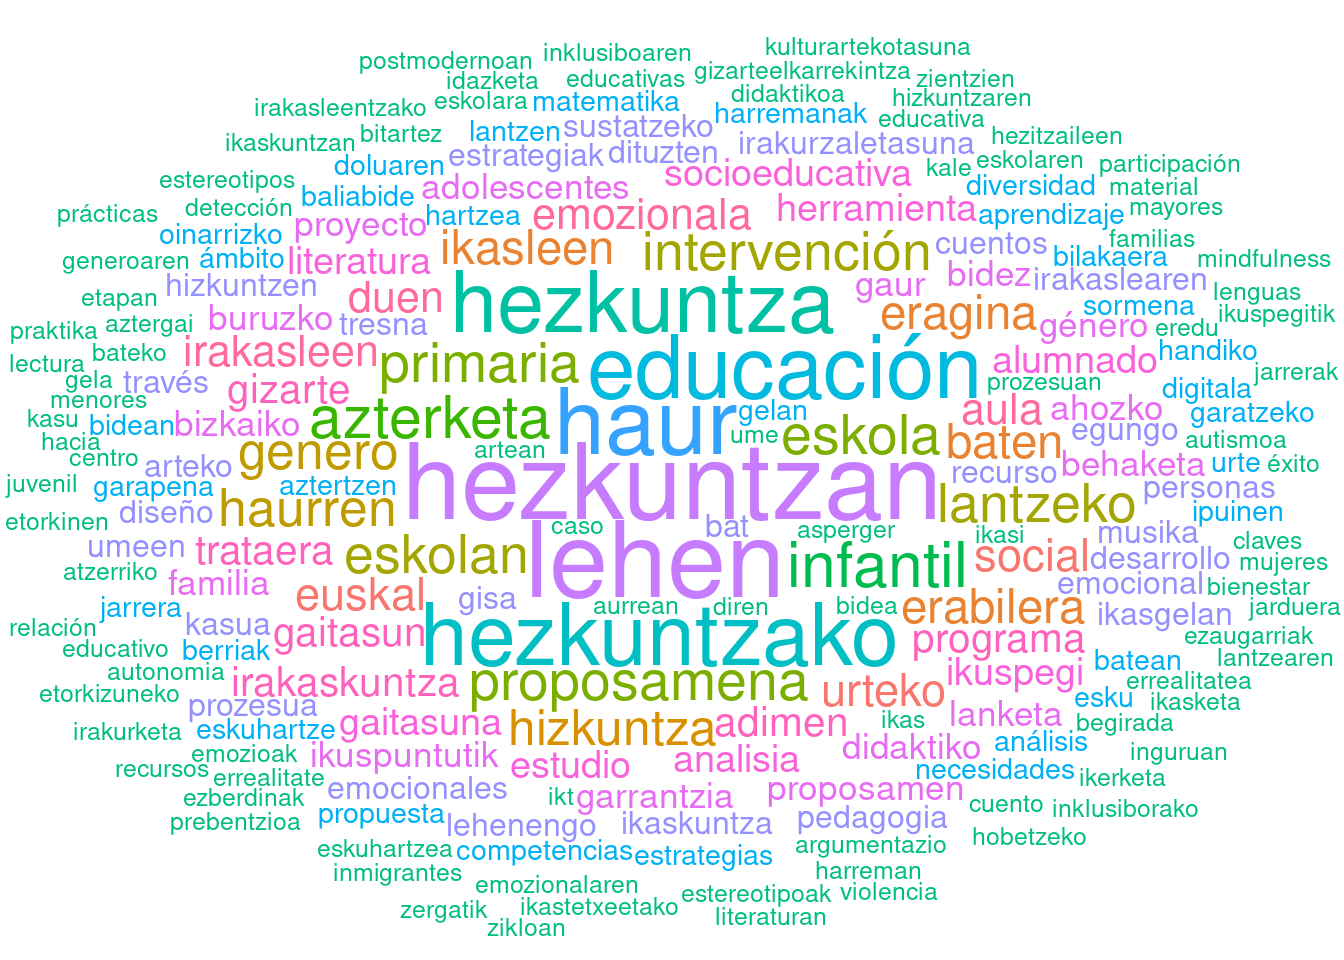
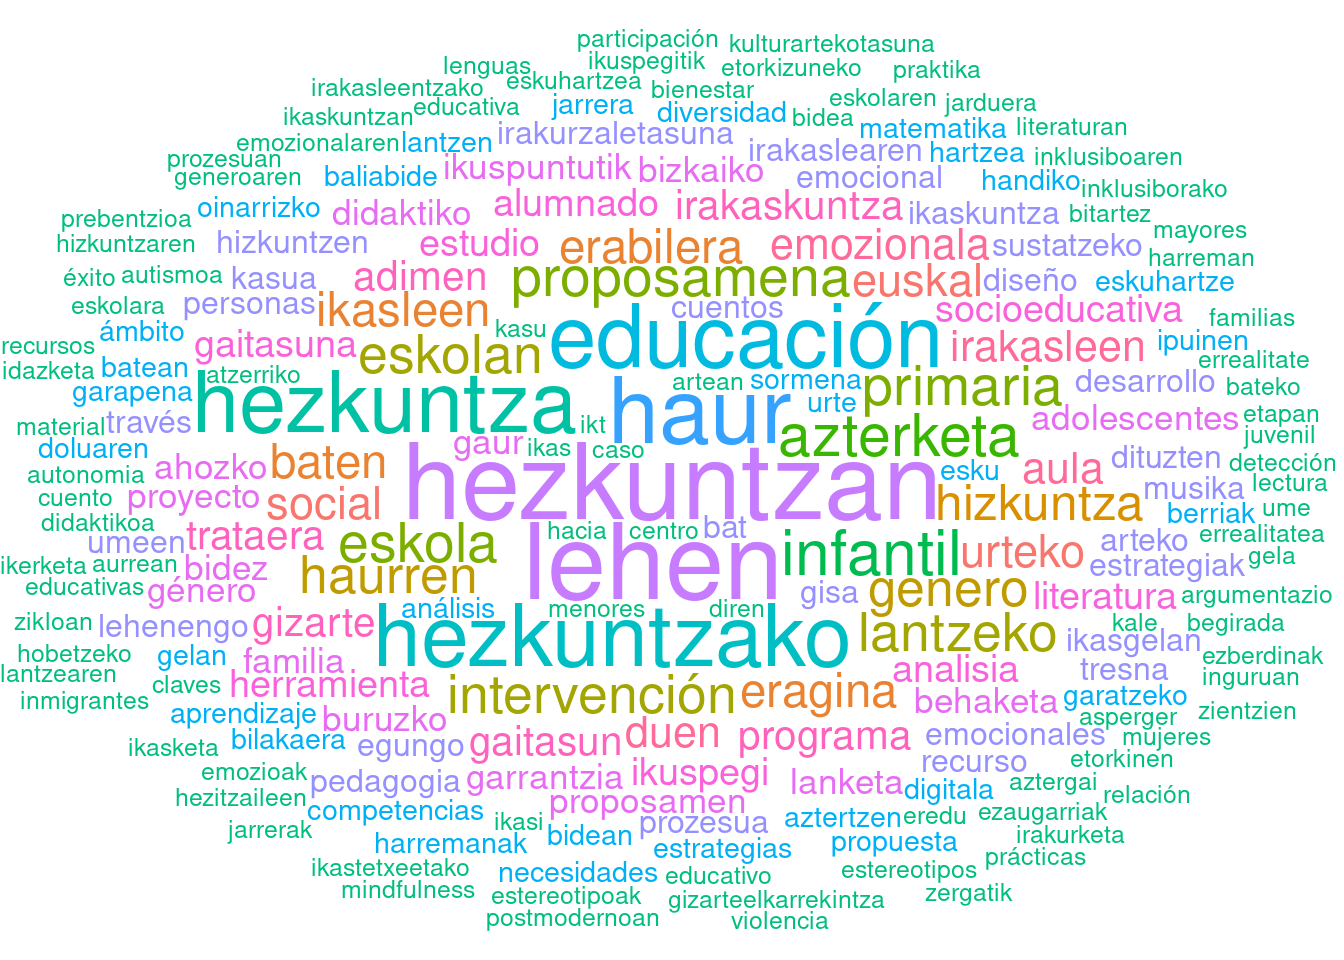
aldaketa txikiak

diff --git a/content/post/2021-08-31-bhfko-gralik-onenetan-azterka/index.html b/content/post/2021-08-31-bhfko-gralik-onenetan-azterka/index.html
@@ -13,9 +13,10 @@ tags:
 <script src="{{< blogdown/postref >}}index_files/header-attrs/header-attrs.js"></script>
 
 
+<p>Benetan ikerketa-hondarra gaurkoa.</p>
 <p>Holakoren batean hemen agertuko behar lukeen proiektu baterako lantxu bat egin dut:</p>
 <ul>
-<li>Bilboko Hezkuntza Fakultateko ikasleek egindako GrAL argitaratuen<a href="#fn1" class="footnote-ref" id="fnref1"><sup>1</sup></a> <em>jaizketa</em></li>
+<li>Bilboko Hezkuntza Fakultateko ikasleek egindako GrAL argitaratuen<a href="#fn1" class="footnote-ref" id="fnref1"><sup>1</sup></a> <em>jazketa</em></li>
 <li>Denen oinarrizko informazioa batu eta gorde:
 <ul>
 <li>URLa</li>
@@ -44,12 +45,11 @@ tags:
 <li>Marraztu berben hodeia</li>
 </ol>
 <p><img src="{{< blogdown/postref >}}index_files/figure-html/wordclouda-1.png" width="672" /></p>
-<p>Berben laino horrek erakusten du tamaina handiagoz gehiagotan erabilitako berba eta txikiago gutxiagotan erabilitakoak. 3tan baino gutxiagotan aurkitutako guztiak baztertu dira. Horrek zer esan nahi du?</p>
-<p>Ba, gurean errealitate elebiduna dagoela eta euskararen erabilera gaztelaniakoari gailendu egiten zaiola nabarmen… lan akademikoetan. Zoritxarrez nire klaseetan ez dut hori igarri.</p>
-<p>Jakina, berben laino horretan banatzen dira zentzu bakarra duten hainbat berba, ez dago-eta lematizazio lanik eginda.</p>
+<p>Berben laino horrek erakusten du tamaina handiagoz gehiagotan erabilitako berba eta txikiago gutxiagotan erabilitakoak. 3tan baino gutxiagotan aurkitutako guztiak baztertu dira.
+Berben laino horretan banatzen dira zentzu bakarra duten hainbat berba, ez dago-eta lematizazio lanik eginda.</p>
 <p>Argi hurrengo taulan:</p>
 <table>
-<caption><span id="tab:taula">Table 1: </span>Proiektu kontzeptuaren agerrera GrAL-en izenburuetan</caption>
+<caption><span id="tab:taula">Table 1: </span><em>Proiektu</em> kontzeptuaren agerrera GrAL-en izenburuetan</caption>
 <thead>
 <tr class="header">
 <th align="left">word</th>
@@ -95,13 +95,15 @@ tags:
 </tr>
 </tbody>
 </table>
+<p>Orduan, ideien errepresentazioari ezin badiogu behar den moduan begiratu, zer esan nahi du iruditxu horrek?</p>
+<p>Ba, gurean errealitate elebiduna dagoela eta euskararen erabilera gaztelaniakoari gailendu egiten zaiola nabarmen… lan akademikoetan. Zoritxarrez nire klaseetan ez dut hori igarri.</p>
 <hr />
 <p>Hasierako burutazioa Bilboko Hezkuntza Fakultateko lanak aztertzeaz gain Gasteizkoa eta Donostikoak aztertzea ere bazegoen, baina Gasteizen<a href="#fn2" class="footnote-ref" id="fnref2"><sup>2</sup></a> lehengo IVEFekoen eragin nagusiak asko urruntzen du lana hezkuntzatik. Donostiakoek<a href="#fn3" class="footnote-ref" id="fnref3"><sup>3</sup></a>, berriz, beste nonbait argitaratuko dutela uste dut.</p>
 </div>
 <div class="footnotes">
 <hr />
 <ol>
-<li id="fn1"><p><a href="https://addi.ehu.es/handle/10810/2050/recent-submissions">Hemen</a> aztergarri<a href="#fnref1" class="footnote-back">↩</a></p></li>
+<li id="fn1"><p><a href="https://addi.ehu.es/handle/10810/2050/recent-submissions">Hemen</a> ADDI biltegiko Bilboko Hezkuntza Fakultateko lan akademiko argitaratuak aztergarri<a href="#fnref1" class="footnote-back">↩</a></p></li>
 <li id="fn2"><p><a href="https://addi.ehu.es/handle/10810/2066/recent-submissions">Hemen</a> Hezkuntza eta Kirol Fakultateko lan akademiko argitaratuak<a href="#fnref2" class="footnote-back">↩</a></p></li>
 <li id="fn3"><p><a href="https://addi.ehu.es/handle/10810/2076/recent-submissions">Hemen</a> ADDI biltegiko Hezkuntza, Filosofia eta Antropologia Fakultateko lan akademikoak<a href="#fnref3" class="footnote-back">↩</a></p></li>
 </ol>
